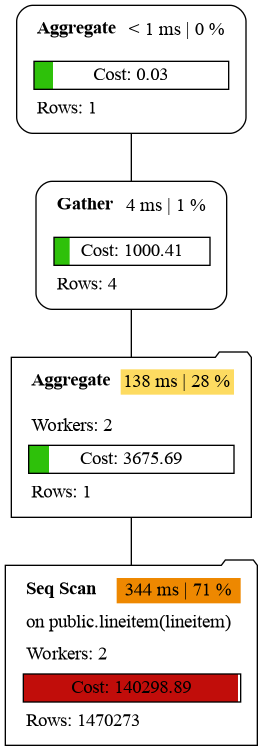
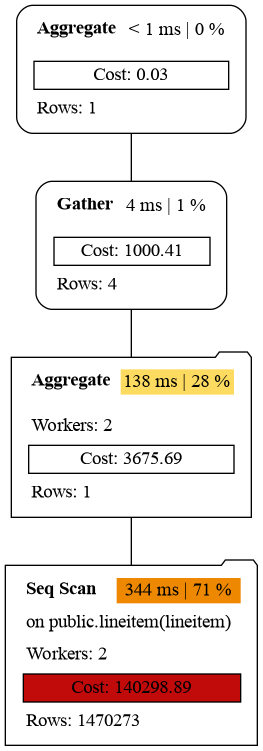
Allows percent > 0.99 and < 0.1

diff --git a/src/graph.rs b/src/graph.rs
@@ -120,8 +120,15 @@ impl<'a> dot::Labeller<'a, Nd, Ed<'a>> for Graph {
 
     fn node_label<'b>(&'b self, n: &Nd) -> dot::LabelText<'b> {
         let node = self.node(n).unwrap();
-        let percent = (node.cost / self.max_cost).min(0.99).max(0.1);
+        let percent = node.cost / self.max_cost;
         let color = color(percent);
+        let bgcolor = if percent < 0.1 {
+            String::new()
+        } else if percent > 0.99 {
+            format!("bgcolor=\"{}\"", color)
+        } else {
+            format!("bgcolor=\"{};{:.2}:white\"", color, percent)
+        };
 
         let mut label = format!(r#"<table border="0" cellborder="0" cellspacing="5">"#);
         label.push_str(&format!(
@@ -138,9 +145,10 @@ impl<'a> dot::Labeller<'a, Nd, Ed<'a>> for Graph {
                 node.n_workers
             ));
         }
+
         label.push_str(&format!(
-            r#"<tr><td colspan="2" border="1" bgcolor="{};{:.2}:white">Cost: {:.02}</td></tr>"#,
-            color, percent, node.cost
+            r#"<tr><td colspan="2" border="1" {}>Cost: {:.02}</td></tr>"#,
+            bgcolor, node.cost
         ));
         label.push_str(&format!(
             r#"<tr><td colspan="2" align="left">Rows: {}</td></tr>"#,
